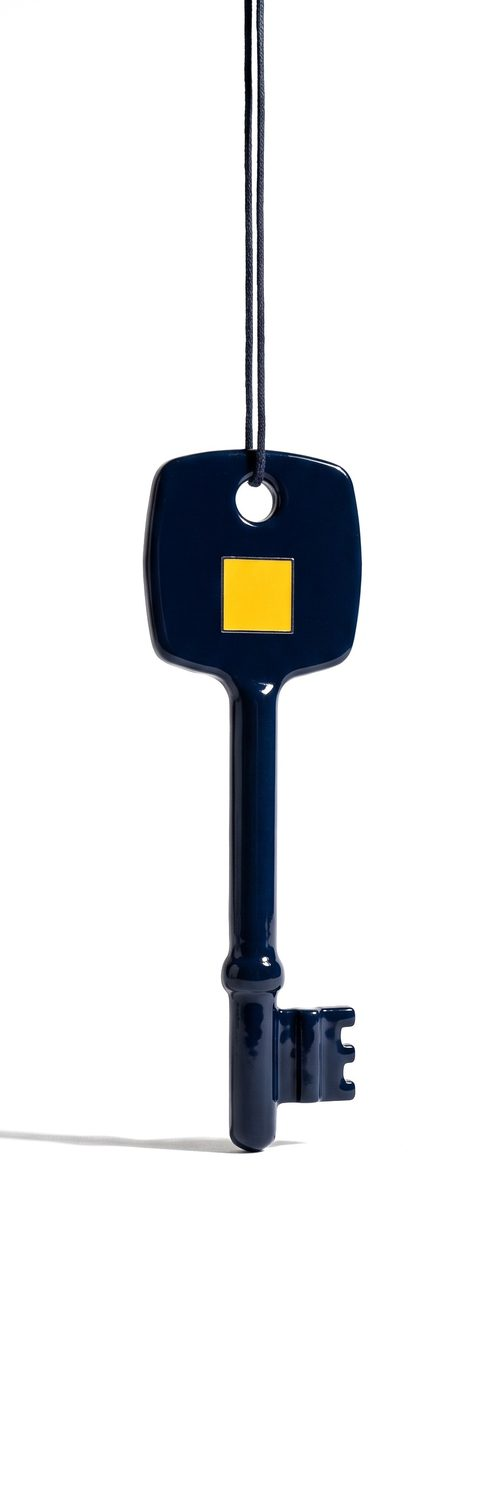
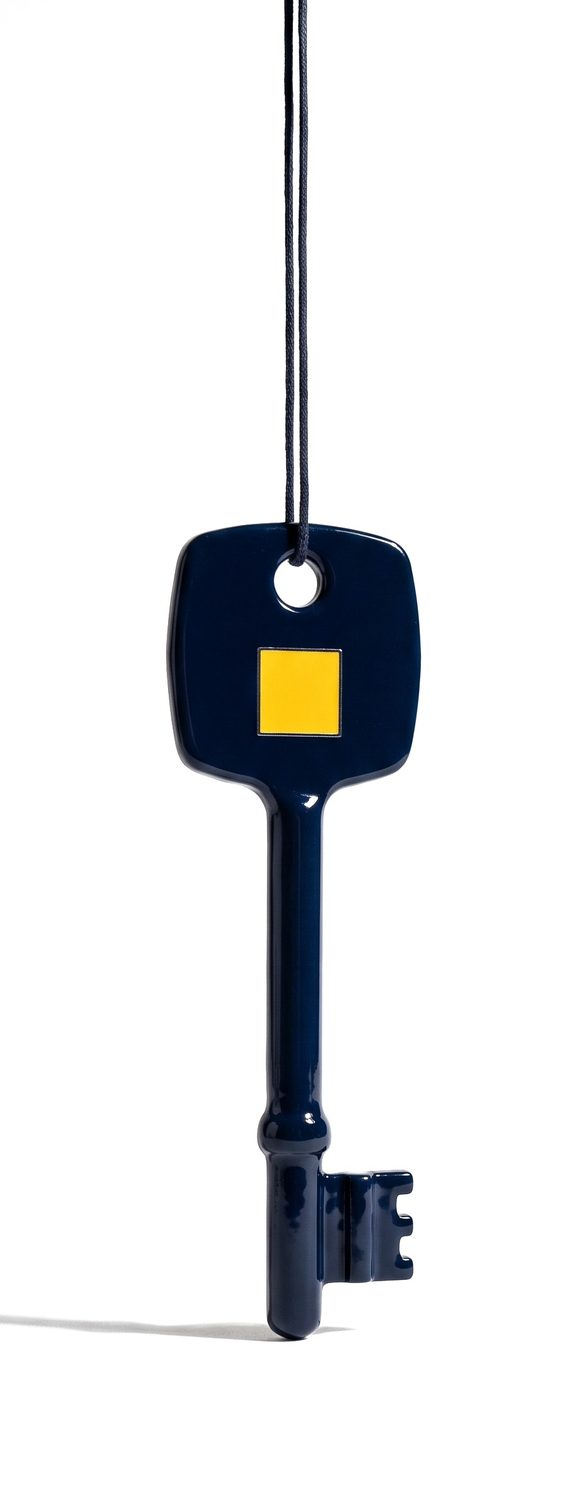
히어로 열쇠 이미지 주변 여백 축소, 섹션 간격 정리
- 열쇠 이미지 아래 빈 영역 잘라냄(584x1500), 모바일 높이 300px
- 세로로 긴 태블릿에서 히어로 높이를 폭 기준으로 제한
- 섹션 상하 여백·카드 최소 높이 축소

Claude-Session: https://claude.ai/code/session_019qcoFEzFovBH6dxxs13rmw

Changed region(s): [[0.0, 0.0, 0.747, 0.92]]

diff --git a/css/site.css b/css/site.css
@@ -6,10 +6,10 @@
  */
 
 /* 서체: 사이트에 쓰인 글자만 남긴 자체 호스팅 서브셋 (tools/subset-fonts.py). SIL OFL 1.1 — assets/fonts/LICENSE.md */
-@font-face { font-family: "AX Sans"; src: url("/assets/fonts/ax-sans.woff2?v=20261104d") format("woff2"); font-weight: 45 920; font-display: swap; }
-@font-face { font-family: "AX Heading"; src: url("/assets/fonts/ax-heading-700.woff2?v=20261104d") format("woff2"); font-weight: 700; font-display: swap; }
-@font-face { font-family: "AX Heading"; src: url("/assets/fonts/ax-heading-800.woff2?v=20261104d") format("woff2"); font-weight: 800; font-display: swap; }
-@font-face { font-family: "AX Pixel"; src: url("/assets/fonts/ax-pixel.woff2?v=20261104d") format("woff2"); font-weight: 400; font-display: swap; }
+@font-face { font-family: "AX Sans"; src: url("/assets/fonts/ax-sans.woff2?v=20261104e") format("woff2"); font-weight: 45 920; font-display: swap; }
+@font-face { font-family: "AX Heading"; src: url("/assets/fonts/ax-heading-700.woff2?v=20261104e") format("woff2"); font-weight: 700; font-display: swap; }
+@font-face { font-family: "AX Heading"; src: url("/assets/fonts/ax-heading-800.woff2?v=20261104e") format("woff2"); font-weight: 800; font-display: swap; }
+@font-face { font-family: "AX Pixel"; src: url("/assets/fonts/ax-pixel.woff2?v=20261104e") format("woff2"); font-weight: 400; font-display: swap; }
 
 :root {
   color-scheme: light;
@@ -40,7 +40,7 @@
   --font-sans: "AX Sans", "Apple SD Gothic Neo", "Malgun Gothic", system-ui, sans-serif;
 
   --pad: clamp(20px, 4.5vw, 88px);           /* 좌우 여백 */
-  --section-y: clamp(88px, 10vw, 184px);
+  --section-y: clamp(56px, 6.5vw, 112px);
   --radius: 10px;
   --ease: cubic-bezier(.2, .8, .2, 1);
 }
@@ -169,7 +169,7 @@ p { text-wrap: pretty; }
 }
 
 /* ── 홈: 히어로 ─────────────────────────────── */
-.hero { position: relative; min-height: max(720px, 100svh); padding: var(--pad); overflow: hidden; }
+.hero { position: relative; min-height: clamp(680px, 100svh, 960px); padding: var(--pad); overflow: hidden; }
 .hero .giant { position: absolute; z-index: 2; font-size: clamp(5rem, 1rem + 11vw, 13rem); }
 .hero-top { left: var(--pad); top: clamp(110px, 15vh, 170px); }
 .hero-bottom { right: var(--pad); bottom: clamp(56px, 9vh, 96px); text-align: right; }
@@ -188,7 +188,7 @@ p { text-wrap: pretty; }
 .hero-index a:hover { color: var(--link); }
 
 /* ── 홈: 선언 ─────────────────────────────── */
-.intro { min-height: 82vh; display: flex; flex-direction: column; justify-content: space-between; gap: 72px; }
+.intro { display: flex; flex-direction: column; justify-content: space-between; gap: clamp(32px, 4vw, 56px); }
 .intro .display { font-size: clamp(2.75rem, 1rem + 7vw, 8.5rem); line-height: 1.02; }
 .intro .lede { margin-top: 32px; }
 .intro .aside { font-family: var(--font-label); font-size: .875rem; line-height: 1.7; color: var(--body); }
@@ -197,9 +197,9 @@ p { text-wrap: pretty; }
 .pluses svg { width: clamp(40px, 4vw, 64px); height: auto; }
 
 /* ── 홈: 문제 카드 ──────────────────────────── */
-.problem .display { margin: clamp(48px, 7vw, 96px) 0; max-width: 16ch; }
+.problem .display { margin: clamp(24px, 3vw, 44px) 0 clamp(32px, 4vw, 56px); max-width: 16ch; }
 .cards3 { display: grid; grid-template-columns: repeat(3, minmax(0, 1fr)); gap: 16px; }
-.card3 { min-height: clamp(260px, 24vw, 340px); padding: clamp(22px, 2.2vw, 32px); display: flex; flex-direction: column; justify-content: space-between; gap: 32px; color: var(--white); background: var(--ink); border-radius: 4px; }
+.card3 { min-height: clamp(220px, 19vw, 280px); padding: clamp(22px, 2.2vw, 32px); display: flex; flex-direction: column; justify-content: space-between; gap: 32px; color: var(--white); background: var(--ink); border-radius: 4px; }
 .card3:nth-child(1) { background: var(--link); }
 .card3:nth-child(3) { background: var(--yellow); color: var(--navy); }
 .card3 .top { display: flex; justify-content: space-between; align-items: flex-start; font-family: var(--font-label); font-size: .875rem; font-weight: 700; }
@@ -208,7 +208,7 @@ p { text-wrap: pretty; }
 .card3 .mini i:nth-child(2n) { opacity: 0; }
 .card3 h3 { font-family: var(--font-heading); font-size: clamp(1.375rem, 1.1rem + .8vw, 1.75rem); font-weight: 800; margin-bottom: 10px; color: inherit; }
 .card3 p { font-size: .9375rem; line-height: 1.65; color: inherit; }
-.after-cards { display: flex; align-items: flex-end; justify-content: space-between; gap: 24px; margin-top: clamp(64px, 8vw, 112px); flex-wrap: wrap; }
+.after-cards { display: flex; align-items: flex-end; justify-content: space-between; gap: 24px; margin-top: clamp(40px, 5vw, 72px); flex-wrap: wrap; }
 .after-cards strong { font-family: var(--font-giant); font-weight: 800; font-size: clamp(2.5rem, 1rem + 5.2vw, 7rem); line-height: .95; letter-spacing: -.06em; color: var(--ink); }
 .after-cards strong .blue { color: var(--blue); }
 
@@ -227,11 +227,11 @@ a.row:hover .name { color: var(--blue); transform: translateX(10px); }
 .dark .row .desc { color: var(--d-body); }
 
 /* ── 홈: 활용 예 슬라이더 (다크) ─────────────────── */
-.cases { min-height: 760px; display: flex; flex-direction: column; justify-content: space-between; gap: 48px; padding-block: 48px 40px; }
+.cases { display: flex; flex-direction: column; justify-content: space-between; gap: clamp(28px, 3.4vw, 44px); padding-block: clamp(40px, 4vw, 56px) 40px; }
 .cases-index { display: flex; gap: 10px; font-family: var(--font-label); font-size: .875rem; color: var(--d-muted); }
 .cases-index b { color: var(--d-ink); }
 .case-stage { display: grid; grid-template-columns: minmax(0, 1.35fr) minmax(240px, .65fr); gap: clamp(32px, 7vw, 120px); align-items: center; }
-.case-board { background: var(--navy-panel); border: 1px solid var(--navy-line); border-radius: 4px; padding: clamp(24px, 3vw, 44px); display: grid; grid-template-columns: repeat(3, minmax(0, 1fr)); gap: clamp(16px, 2.4vw, 36px); min-height: 360px; align-content: center; }
+.case-board { background: var(--navy-panel); border: 1px solid var(--navy-line); border-radius: 4px; padding: clamp(24px, 3vw, 44px); display: grid; grid-template-columns: repeat(3, minmax(0, 1fr)); gap: clamp(16px, 2.4vw, 36px); min-height: 280px; align-content: center; }
 .case-board div { border-top: 2px solid var(--yellow); padding-top: 16px; }
 .case-board div:nth-child(2) { border-top-color: var(--sky); }
 .case-board div:nth-child(3) { border-top-color: var(--pink); }
@@ -247,7 +247,7 @@ a.row:hover .name { color: var(--blue); transform: translateX(10px); }
 @media (prefers-reduced-motion: no-preference) { .case-swap { animation: case-in .45s var(--ease); } @keyframes case-in { from { opacity: 0; transform: translateY(10px); } to { opacity: 1; transform: none; } } }
 
 /* ── 홈: SI 비교 ─────────────────────────────── */
-.compare-head { display: flex; justify-content: space-between; align-items: flex-end; gap: 24px; margin-bottom: clamp(48px, 6vw, 80px); }
+.compare-head { display: flex; justify-content: space-between; align-items: flex-end; gap: 24px; margin-bottom: clamp(28px, 3.6vw, 52px); }
 .cmp { border-top: 1.5px solid var(--ink); }
 .cmp-row { display: grid; grid-template-columns: 64px 200px minmax(0, 1fr) minmax(0, 1fr); gap: 24px; padding: 24px 0; border-bottom: 1px solid #A9B1C6; align-items: baseline; }
 .cmp-row.head { padding: 14px 0; }
@@ -261,13 +261,13 @@ a.row:hover .name { color: var(--blue); transform: translateX(10px); }
 .cmp-note strong { color: var(--ink); }
 
 /* ── 홈: 보안 (다크) ─────────────────────────── */
-.sec-head { display: grid; grid-template-columns: 1fr minmax(240px, 22rem); gap: 64px; align-items: end; }
+.sec-head { display: grid; grid-template-columns: 1fr minmax(240px, 22rem); gap: 48px; align-items: end; }
 .sec-head .giant { font-size: clamp(4rem, 1rem + 11vw, 13.5rem); }
 .sec-head p { font-size: 1.0625rem; }
-.dark .rows { margin-top: clamp(64px, 8vw, 112px); }
+.dark .rows { margin-top: clamp(36px, 4.4vw, 64px); }
 
 /* ── 단계 ─────────────────────────────────── */
-.steps { display: grid; grid-template-columns: repeat(3, minmax(0, 1fr)); gap: clamp(24px, 3vw, 48px); margin-top: clamp(48px, 6vw, 80px); }
+.steps { display: grid; grid-template-columns: repeat(3, minmax(0, 1fr)); gap: clamp(24px, 3vw, 48px); margin-top: clamp(28px, 3.6vw, 48px); }
 .step { border-top: 1.5px solid var(--ink); padding-top: 24px; display: grid; gap: 12px; align-content: start; }
 .step .big { font-family: var(--font-giant); font-weight: 800; font-size: clamp(3.5rem, 2rem + 4vw, 6rem); line-height: .9; letter-spacing: -.06em; color: var(--blue); }
 .step h3 { font-family: var(--font-heading); font-weight: 800; font-size: 1.5rem; }
@@ -276,7 +276,7 @@ a.row:hover .name { color: var(--blue); transform: translateX(10px); }
 .steps-note { margin-top: 40px; color: var(--body); }
 
 /* ── 문의 ─────────────────────────────────── */
-.contact-cta { min-height: 72vh; display: flex; flex-direction: column; justify-content: space-between; gap: 64px; }
+.contact-cta { display: flex; flex-direction: column; justify-content: space-between; gap: clamp(32px, 4vw, 56px); }
 .contact-cta .display { font-size: clamp(2.75rem, 1rem + 6.6vw, 8.5rem); line-height: 1.02; }
 .contact-cta .go { display: inline-flex; align-items: center; gap: .18em; border-bottom: .06em solid currentColor; transition: color .2s; }
 .contact-cta .go:hover { color: var(--blue); }
@@ -291,27 +291,27 @@ a.row:hover .name { color: var(--blue); transform: translateX(10px); }
 .footer-cols li + li { margin-top: 6px; }
 .footer-cols a { color: var(--d-body); font-size: .9375rem; }
 .footer-cols a:hover { color: var(--yellow); }
-.footer-bottom { margin-top: clamp(48px, 6vw, 80px); padding-top: 20px; border-top: 1px solid var(--navy-line); display: flex; justify-content: space-between; gap: 16px; flex-wrap: wrap; font-size: .8125rem; color: var(--d-muted); }
+.footer-bottom { margin-top: clamp(32px, 4vw, 56px); padding-top: 20px; border-top: 1px solid var(--navy-line); display: flex; justify-content: space-between; gap: 16px; flex-wrap: wrap; font-size: .8125rem; color: var(--d-muted); }
 .footer-bottom a:hover { color: var(--yellow); }
 
 /* ════════ 하위 페이지 ════════ */
-.page-hero { padding: clamp(150px, 20vh, 220px) var(--pad) clamp(72px, 8vw, 128px); position: relative; }
+.page-hero { padding: clamp(112px, 14vh, 160px) var(--pad) clamp(44px, 5vw, 80px); position: relative; }
 .page-hero .giant { font-size: clamp(4.25rem, 1rem + 12vw, 14rem); }
-.page-hero-body { display: flex; justify-content: space-between; align-items: flex-end; gap: 48px; margin-top: clamp(40px, 5vw, 72px); flex-wrap: wrap; }
+.page-hero-body { display: flex; justify-content: space-between; align-items: flex-end; gap: 40px; margin-top: clamp(20px, 2.6vw, 40px); flex-wrap: wrap; }
 .page-hero h1 { font-family: var(--font-heading); font-weight: 800; font-size: clamp(1.75rem, 1.2rem + 2vw, 3.25rem); line-height: 1.2; letter-spacing: -.035em; max-width: 22ch; text-wrap: balance; }
 .page-hero h1 em { font-style: normal; color: var(--blue); }
 .page-hero .lede { margin-top: 20px; }
 .scatter { display: grid; grid-template-columns: repeat(6, 14px); grid-auto-rows: 14px; gap: 5px; flex: none; }
 .scatter i.y { background: var(--yellow); } .scatter i.s { background: var(--sky); } .scatter i.p { background: var(--pink); }
 
-.sec-title { display: flex; justify-content: space-between; align-items: flex-end; gap: 24px; margin-bottom: clamp(40px, 5vw, 72px); flex-wrap: wrap; }
+.sec-title { display: flex; justify-content: space-between; align-items: flex-end; gap: 24px; margin-bottom: clamp(28px, 3.4vw, 52px); flex-wrap: wrap; }
 .sec-title .display { font-size: clamp(2rem, 1.1rem + 3.4vw, 4.5rem); }
 .sec-title .aside { max-width: 24rem; color: var(--body); }
 .dark .sec-title .aside { color: var(--d-body); }
 
 /* /toaster: 두 라인 */
 .lines2 { display: grid; grid-template-columns: repeat(2, minmax(0, 1fr)); gap: 16px; }
-.line2 { padding: clamp(24px, 3vw, 44px); border-radius: 4px; display: grid; gap: 20px; align-content: start; min-height: 320px; }
+.line2 { padding: clamp(24px, 3vw, 40px); border-radius: 4px; display: grid; gap: 18px; align-content: start; min-height: 260px; }
 .line2:nth-child(1) { background: var(--link); color: var(--white); }
 .line2:nth-child(2) { background: var(--navy); color: var(--d-ink); }
 .line2 .label { opacity: .85; }
@@ -323,7 +323,7 @@ a.row:hover .name { color: var(--blue); transform: translateX(10px); }
 .chips .arr { opacity: .7; }
 
 /* /toaster: 제품 상세 */
-.product { display: grid; grid-template-columns: 64px minmax(0, 1fr) minmax(0, 1fr); gap: 24px clamp(24px, 4vw, 64px); padding: clamp(36px, 4vw, 56px) 0; border-bottom: 1px solid #A9B1C6; scroll-margin-top: 24px; }
+.product { display: grid; grid-template-columns: 64px minmax(0, 1fr) minmax(0, 1fr); gap: 24px clamp(24px, 4vw, 64px); padding: clamp(28px, 3vw, 44px) 0; border-bottom: 1px solid #A9B1C6; scroll-margin-top: 24px; }
 .product:first-child { border-top: 1.5px solid var(--ink); }
 .product .num { font-family: var(--font-label); font-size: .8125rem; font-weight: 700; color: var(--muted); padding-top: .9em; }
 .product h3 { font-family: var(--font-giant); font-weight: 800; font-size: clamp(2.5rem, 1rem + 5vw, 6rem); line-height: .95; letter-spacing: -.06em; }
@@ -384,6 +384,10 @@ a.row:hover .name { color: var(--blue); transform: translateX(10px); }
   .hero-note.right { right: var(--pad); top: 63%; }
   .hero-index { display: none; }
 }
+/* 세로로 긴 태블릿: 화면 높이(100svh)를 다 채우면 열쇠·문구 사이가 벌어지므로 폭 기준으로 높이를 잡는다 */
+@media (min-width: 761px) and (max-aspect-ratio: 4/5) {
+  .hero { min-height: clamp(640px, 104vw, 900px); }
+}
 @media (max-width: 900px) {
   .case-stage, .sec-head, .split { grid-template-columns: 1fr; }
   .cards3, .lines2 { grid-template-columns: 1fr; }
@@ -401,7 +405,7 @@ a.row:hover .name { color: var(--blue); transform: translateX(10px); }
 }
 @media (max-width: 760px) {
   /* 좁은 화면: 겹치는 배치 대신 위에서 아래로 쌓는다 */
-  .hero { min-height: 0; display: flex; flex-direction: column; gap: 28px; padding-top: 104px; padding-bottom: 72px; }
+  .hero { min-height: 0; display: flex; flex-direction: column; gap: 20px; padding-top: 96px; padding-bottom: 48px; }
   .hero .giant, .hero-art, .hero-note, .hero-desc { position: static; }
   .hero .giant { font-size: clamp(4.25rem, 22vw, 7rem); }
   .hero-bottom { text-align: right; order: 4; }
@@ -430,7 +434,7 @@ a.row:hover .name { color: var(--blue); transform: translateX(10px); }
 
 .sr-only { position: absolute; width: 1px; height: 1px; padding: 0; margin: -1px; overflow: hidden; clip-path: inset(50%); white-space: nowrap; border: 0; }
 .cases-index button[aria-current] { color: var(--d-ink); text-decoration: underline; text-underline-offset: 4px; }
-.case-list { display: grid; gap: 64px; }
+.case-list { display: grid; gap: 48px; }
 .js .case-list { gap: 0; }
 .case { display: grid; gap: clamp(32px, 4vw, 56px); }
 .case[hidden] { display: none; }
@@ -452,16 +456,20 @@ address { font-style: normal; }
 .sec-head .sec-aside p { text-align: left; }
 @media (max-width: 900px) { .sec-photo { margin-left: 0; } }
 @media (max-width: 760px) {
-  .hero-art img { height: 420px; max-width: none; }
+  .hero-art img { height: 340px; max-width: none; }
   .intro-art { display: none; }
 }
 /* 사진 가장자리를 흰 바탕에 녹인다(좌우·아래) */
 .hero-art img { -webkit-mask-image: linear-gradient(90deg, transparent 0, #000 22%, #000 78%, transparent 100%), linear-gradient(#000 85%, transparent); mask-image: linear-gradient(90deg, transparent 0, #000 22%, #000 78%, transparent 100%); }
 .sec-photo { margin-left: 0; }
 /* 하위 페이지 히어로 이미지 */
-.hero-banner { margin: clamp(32px, 4vw, 56px) 0 0; }
+.hero-banner { margin: clamp(24px, 3vw, 40px) 0 0; }
 .hero-banner img { width: 100%; height: auto; -webkit-mask-image: linear-gradient(#000 80%, transparent); mask-image: linear-gradient(#000 80%, transparent); }
 .hero-side { display: block; width: min(340px, 34vw); flex: none; }
 .hero-side img { width: 100%; height: auto; }
 @media (max-width: 760px) { .hero-side { width: 70vw; margin-inline: auto; } }
 .hero-side.fade-r img { -webkit-mask-image: linear-gradient(90deg, #000 70%, transparent 98%); mask-image: linear-gradient(90deg, #000 70%, transparent 98%); }
+@media (max-width: 760px) {
+  .hero-art img { height: 300px; }
+  .case-title { font-size: clamp(2rem, 10.5vw, 3.25rem); overflow-wrap: normal; }
+}

diff --git a/index.html b/index.html
@@ -17,13 +17,13 @@
 <meta name="twitter:card" content="summary_large_image">
 <!-- @assets -->
 <link rel="icon" href="/assets/brand/favicon.svg" type="image/svg+xml">
-<link rel="preload" href="/assets/fonts/ax-sans.woff2?v=20261104d" as="font" type="font/woff2" crossorigin>
-<link rel="preload" href="/assets/fonts/ax-heading-800.woff2?v=20261104d" as="font" type="font/woff2" crossorigin>
+<link rel="preload" href="/assets/fonts/ax-sans.woff2?v=20261104e" as="font" type="font/woff2" crossorigin>
+<link rel="preload" href="/assets/fonts/ax-heading-800.woff2?v=20261104e" as="font" type="font/woff2" crossorigin>
 <link rel="preconnect" href="https://fonts.googleapis.com">
 <link rel="preconnect" href="https://fonts.gstatic.com" crossorigin>
 <link rel="stylesheet" href="https://fonts.googleapis.com/css2?family=Space+Grotesk:wght@500;700&display=swap">
-<link rel="stylesheet" href="/css/site.css?v=20261104d">
-<script src="/js/main.js?v=20261104d" defer></script>
+<link rel="stylesheet" href="/css/site.css?v=20261104e">
+<script src="/js/main.js?v=20261104e" defer></script>
 <script async src="https://www.googletagmanager.com/gtag/js?id=G-0PF8YSG744"></script>
 <script>window.dataLayer=window.dataLayer||[];function gtag(){dataLayer.push(arguments);}gtag('js',new Date());gtag('config','G-0PF8YSG744');</script>
 <!-- /@assets -->
@@ -48,7 +48,7 @@
 <section class="hero" aria-labelledby="hero-title">
     <h1 id="hero-title" class="sr-only">AvalonX — Own your AI. AI를 도입하지 말고 소유하세요.</h1>
     <p class="giant hero-top" aria-hidden="true">Own</p>
-    <div class="hero-art"><picture><source type="image/webp" srcset="/assets/img/hero-key-900.webp 301w, /assets/img/hero-key-1500.webp 502w" sizes="(max-width: 760px) 50vw, 30vh"><img src="/assets/img/hero-key-1500.jpg" width="502" height="1500" alt="" fetchpriority="high"></picture></div>
+    <div class="hero-art"><picture><source type="image/webp" srcset="/assets/img/hero-key-900.webp 350w, /assets/img/hero-key-1500.webp 584w" sizes="(max-width: 760px) 50vw, 30vh"><img src="/assets/img/hero-key-1500.jpg" width="584" height="1500" alt="" fetchpriority="high"></picture></div>
     <p class="hero-note left"><span class="muted">당신의 데이터로,</span><strong>당신의 환경에서.</strong></p>
     <p class="hero-note right"><span class="muted">데이터·모델·에이전트의</span><strong>열쇠는 고객이 갖습니다.</strong></p>
     <nav class="hero-index" aria-label="Toaster 제품">

diff --git a/404.html b/404.html
@@ -17,13 +17,13 @@
 <meta name="twitter:card" content="summary_large_image">
 <!-- @assets -->
 <link rel="icon" href="/assets/brand/favicon.svg" type="image/svg+xml">
-<link rel="preload" href="/assets/fonts/ax-sans.woff2?v=20261104d" as="font" type="font/woff2" crossorigin>
-<link rel="preload" href="/assets/fonts/ax-heading-800.woff2?v=20261104d" as="font" type="font/woff2" crossorigin>
+<link rel="preload" href="/assets/fonts/ax-sans.woff2?v=20261104e" as="font" type="font/woff2" crossorigin>
+<link rel="preload" href="/assets/fonts/ax-heading-800.woff2?v=20261104e" as="font" type="font/woff2" crossorigin>
 <link rel="preconnect" href="https://fonts.googleapis.com">
 <link rel="preconnect" href="https://fonts.gstatic.com" crossorigin>
 <link rel="stylesheet" href="https://fonts.googleapis.com/css2?family=Space+Grotesk:wght@500;700&display=swap">
-<link rel="stylesheet" href="/css/site.css?v=20261104d">
-<script src="/js/main.js?v=20261104d" defer></script>
+<link rel="stylesheet" href="/css/site.css?v=20261104e">
+<script src="/js/main.js?v=20261104e" defer></script>
 <script async src="https://www.googletagmanager.com/gtag/js?id=G-0PF8YSG744"></script>
 <script>window.dataLayer=window.dataLayer||[];function gtag(){dataLayer.push(arguments);}gtag('js',new Date());gtag('config','G-0PF8YSG744');</script>
 <!-- /@assets -->

diff --git a/about.html b/about.html
@@ -17,13 +17,13 @@
 <meta name="twitter:card" content="summary_large_image">
 <!-- @assets -->
 <link rel="icon" href="/assets/brand/favicon.svg" type="image/svg+xml">
-<link rel="preload" href="/assets/fonts/ax-sans.woff2?v=20261104d" as="font" type="font/woff2" crossorigin>
-<link rel="preload" href="/assets/fonts/ax-heading-800.woff2?v=20261104d" as="font" type="font/woff2" crossorigin>
+<link rel="preload" href="/assets/fonts/ax-sans.woff2?v=20261104e" as="font" type="font/woff2" crossorigin>
+<link rel="preload" href="/assets/fonts/ax-heading-800.woff2?v=20261104e" as="font" type="font/woff2" crossorigin>
 <link rel="preconnect" href="https://fonts.googleapis.com">
 <link rel="preconnect" href="https://fonts.gstatic.com" crossorigin>
 <link rel="stylesheet" href="https://fonts.googleapis.com/css2?family=Space+Grotesk:wght@500;700&display=swap">
-<link rel="stylesheet" href="/css/site.css?v=20261104d">
-<script src="/js/main.js?v=20261104d" defer></script>
+<link rel="stylesheet" href="/css/site.css?v=20261104e">
+<script src="/js/main.js?v=20261104e" defer></script>
 <script async src="https://www.googletagmanager.com/gtag/js?id=G-0PF8YSG744"></script>
 <script>window.dataLayer=window.dataLayer||[];function gtag(){dataLayer.push(arguments);}gtag('js',new Date());gtag('config','G-0PF8YSG744');</script>
 <!-- /@assets -->

diff --git a/contact.html b/contact.html
@@ -17,13 +17,13 @@
 <meta name="twitter:card" content="summary_large_image">
 <!-- @assets -->
 <link rel="icon" href="/assets/brand/favicon.svg" type="image/svg+xml">
-<link rel="preload" href="/assets/fonts/ax-sans.woff2?v=20261104d" as="font" type="font/woff2" crossorigin>
-<link rel="preload" href="/assets/fonts/ax-heading-800.woff2?v=20261104d" as="font" type="font/woff2" crossorigin>
+<link rel="preload" href="/assets/fonts/ax-sans.woff2?v=20261104e" as="font" type="font/woff2" crossorigin>
+<link rel="preload" href="/assets/fonts/ax-heading-800.woff2?v=20261104e" as="font" type="font/woff2" crossorigin>
 <link rel="preconnect" href="https://fonts.googleapis.com">
 <link rel="preconnect" href="https://fonts.gstatic.com" crossorigin>
 <link rel="stylesheet" href="https://fonts.googleapis.com/css2?family=Space+Grotesk:wght@500;700&display=swap">
-<link rel="stylesheet" href="/css/site.css?v=20261104d">
-<script src="/js/main.js?v=20261104d" defer></script>
+<link rel="stylesheet" href="/css/site.css?v=20261104e">
+<script src="/js/main.js?v=20261104e" defer></script>
 <script async src="https://www.googletagmanager.com/gtag/js?id=G-0PF8YSG744"></script>
 <script>window.dataLayer=window.dataLayer||[];function gtag(){dataLayer.push(arguments);}gtag('js',new Date());gtag('config','G-0PF8YSG744');</script>
 <!-- /@assets -->

diff --git a/security.html b/security.html
@@ -17,13 +17,13 @@
 <meta name="twitter:card" content="summary_large_image">
 <!-- @assets -->
 <link rel="icon" href="/assets/brand/favicon.svg" type="image/svg+xml">
-<link rel="preload" href="/assets/fonts/ax-sans.woff2?v=20261104d" as="font" type="font/woff2" crossorigin>
-<link rel="preload" href="/assets/fonts/ax-heading-800.woff2?v=20261104d" as="font" type="font/woff2" crossorigin>
+<link rel="preload" href="/assets/fonts/ax-sans.woff2?v=20261104e" as="font" type="font/woff2" crossorigin>
+<link rel="preload" href="/assets/fonts/ax-heading-800.woff2?v=20261104e" as="font" type="font/woff2" crossorigin>
 <link rel="preconnect" href="https://fonts.googleapis.com">
 <link rel="preconnect" href="https://fonts.gstatic.com" crossorigin>
 <link rel="stylesheet" href="https://fonts.googleapis.com/css2?family=Space+Grotesk:wght@500;700&display=swap">
-<link rel="stylesheet" href="/css/site.css?v=20261104d">
-<script src="/js/main.js?v=20261104d" defer></script>
+<link rel="stylesheet" href="/css/site.css?v=20261104e">
+<script src="/js/main.js?v=20261104e" defer></script>
 <script async src="https://www.googletagmanager.com/gtag/js?id=G-0PF8YSG744"></script>
 <script>window.dataLayer=window.dataLayer||[];function gtag(){dataLayer.push(arguments);}gtag('js',new Date());gtag('config','G-0PF8YSG744');</script>
 <!-- /@assets -->

diff --git a/toaster.html b/toaster.html
@@ -17,13 +17,13 @@
 <meta name="twitter:card" content="summary_large_image">
 <!-- @assets -->
 <link rel="icon" href="/assets/brand/favicon.svg" type="image/svg+xml">
-<link rel="preload" href="/assets/fonts/ax-sans.woff2?v=20261104d" as="font" type="font/woff2" crossorigin>
-<link rel="preload" href="/assets/fonts/ax-heading-800.woff2?v=20261104d" as="font" type="font/woff2" crossorigin>
+<link rel="preload" href="/assets/fonts/ax-sans.woff2?v=20261104e" as="font" type="font/woff2" crossorigin>
+<link rel="preload" href="/assets/fonts/ax-heading-800.woff2?v=20261104e" as="font" type="font/woff2" crossorigin>
 <link rel="preconnect" href="https://fonts.googleapis.com">
 <link rel="preconnect" href="https://fonts.gstatic.com" crossorigin>
 <link rel="stylesheet" href="https://fonts.googleapis.com/css2?family=Space+Grotesk:wght@500;700&display=swap">
-<link rel="stylesheet" href="/css/site.css?v=20261104d">
-<script src="/js/main.js?v=20261104d" defer></script>
+<link rel="stylesheet" href="/css/site.css?v=20261104e">
+<script src="/js/main.js?v=20261104e" defer></script>
 <script async src="https://www.googletagmanager.com/gtag/js?id=G-0PF8YSG744"></script>
 <script>window.dataLayer=window.dataLayer||[];function gtag(){dataLayer.push(arguments);}gtag('js',new Date());gtag('config','G-0PF8YSG744');</script>
 <!-- /@assets -->

diff --git a/tools/sync-layout.py b/tools/sync-layout.py
@@ -18,7 +18,7 @@ import sys
 from pathlib import Path
 
 ROOT = Path(__file__).resolve().parent.parent
-CSS_VERSION = "20261104d"  # CSS·JS·서체를 바꾸면 올린다 (캐시 갱신, site.css의 서체 URL에도 반영됨)
+CSS_VERSION = "20261104e"  # CSS·JS·서체를 바꾸면 올린다 (캐시 갱신, site.css의 서체 URL에도 반영됨)
 
 ASSETS = f"""<link rel="icon" href="/assets/brand/favicon.svg" type="image/svg+xml">
 <link rel="preload" href="/assets/fonts/ax-sans.woff2?v={CSS_VERSION}" as="font" type="font/woff2" crossorigin>
